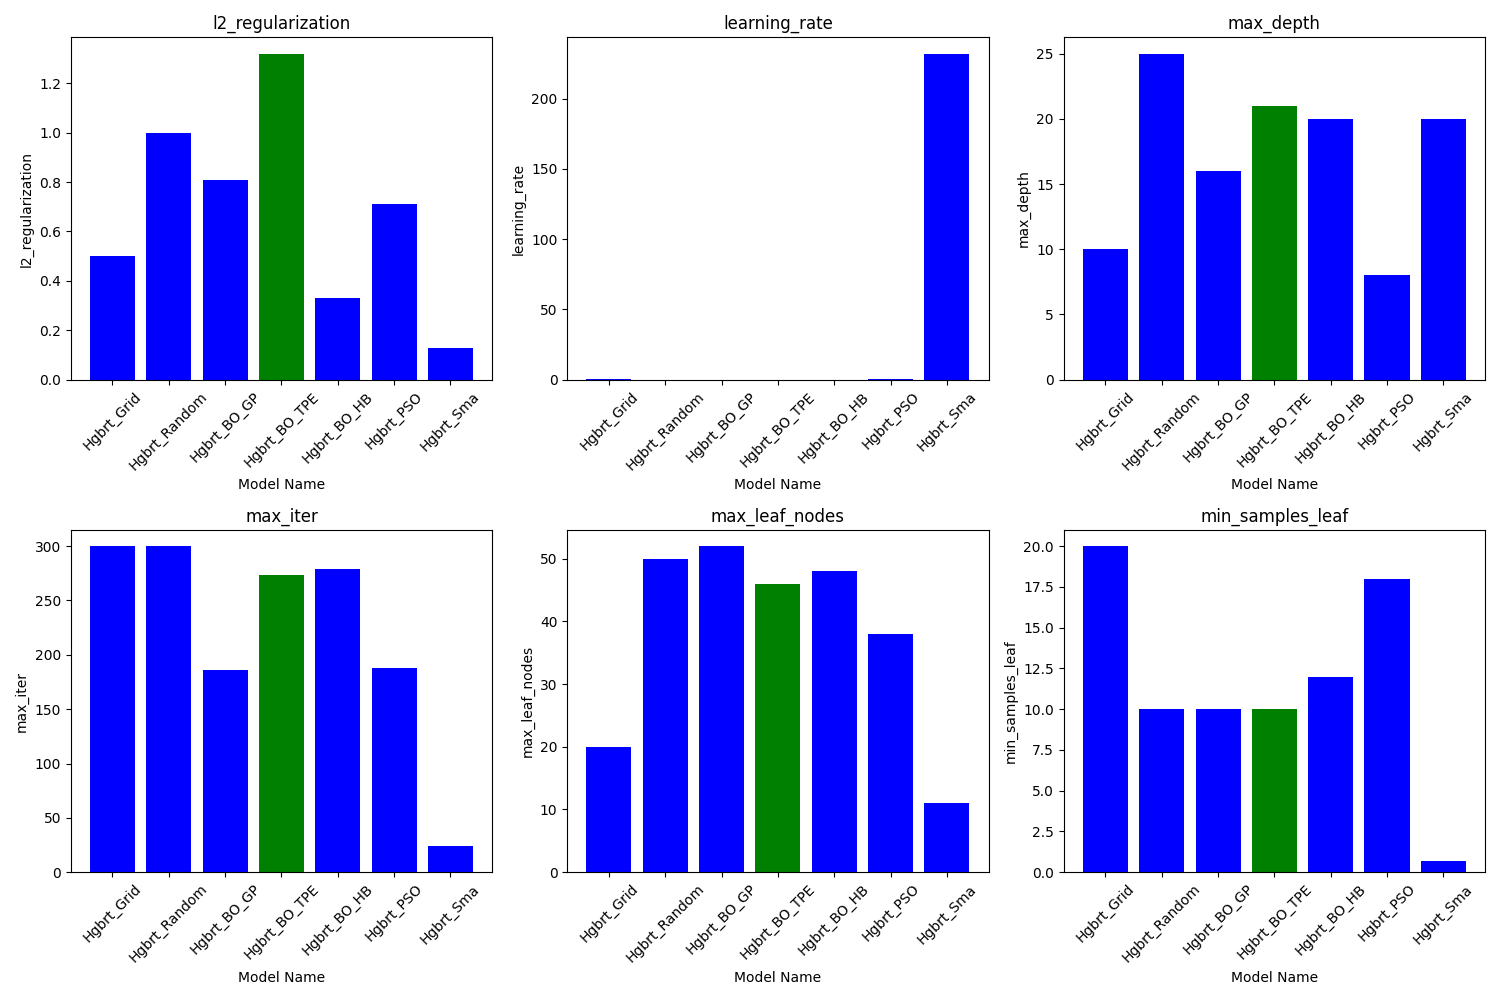
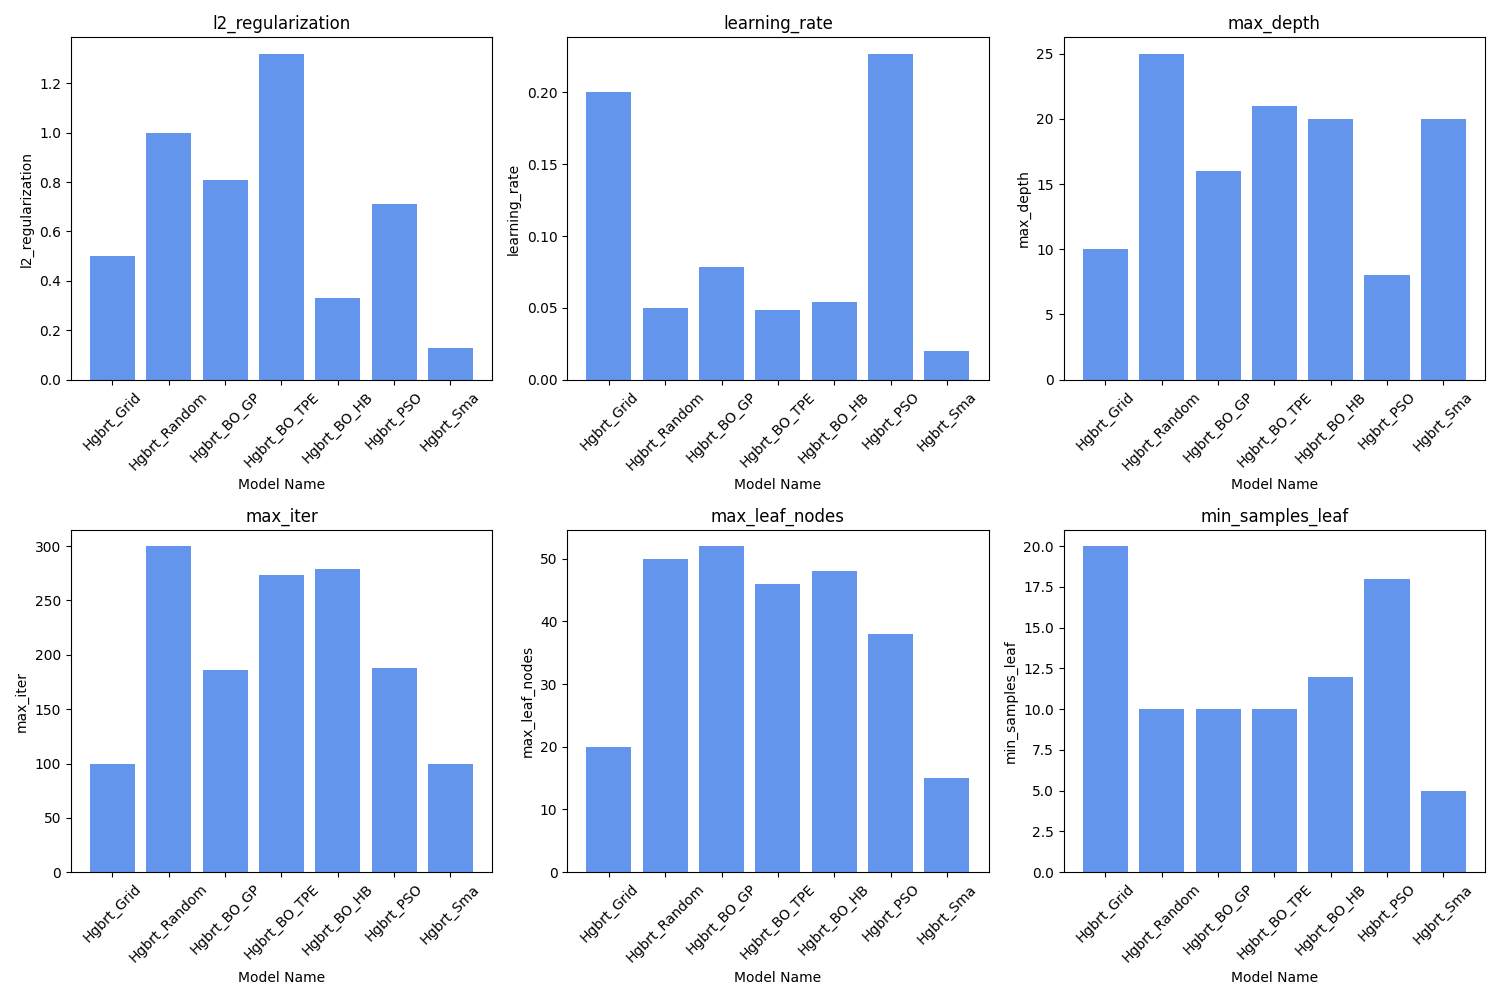
sma included for new dataset run

diff --git a/src/params.py b/src/params.py
@@ -5,11 +5,10 @@ import numpy as np
 # Load the data
 df = pd.read_csv('../data/model_best_params.csv')
 
-# Set BO_TPE as the best model (you can change this logic based on your criteria)
-best_model = 'Hgbrt_BO_TPE'
+
 
 # Define the color for each model, with BO_TPE highlighted
-colors = ['red' if model == best_model else 'blue' for model in df['Model Name']]
+colors = 'cornflowerblue'
 
 # Parameters to plot
 parameters = ['l2_regularization', 'learning_rate', 'max_depth', 'max_iter', 'max_leaf_nodes', 'min_samples_leaf']
@@ -24,8 +23,7 @@ for i, param in enumerate(parameters):
     # Plot the parameter values
     ax.bar(df['Model Name'], df[param], color=colors)
     
-    # Highlight the BO_TPE bar
-    ax.bar(df.loc[df['Model Name'] == best_model, 'Model Name'], df.loc[df['Model Name'] == best_model, param], color='green')
+
     
     ax.set_title(param)
     ax.set_xlabel('Model Name')

diff --git a/README.md b/README.md
@@ -15,8 +15,8 @@
 To get started, clone this repository and navigate to the project directory.
 
 ```bash
-git clone <repository-url>
-cd <repository-directory>
+git clone https://github.com/Prithiv-vijai/5g_MEC.git
+cd 5g_MEC
 ```
 
 ### Optional Step: Set Up a Virtual Environment
@@ -25,7 +25,8 @@ It's recommended to create a virtual environment for this project to manage depe
 
 ```bash
 python -m venv venv
-source venv/bin/activate  # On Windows use `venv\Scripts\activate`
+source venv/bin/activate
+cd src  # On Windows use `venv\Scripts\activate`
 ```
 
 ### Install Requirements
